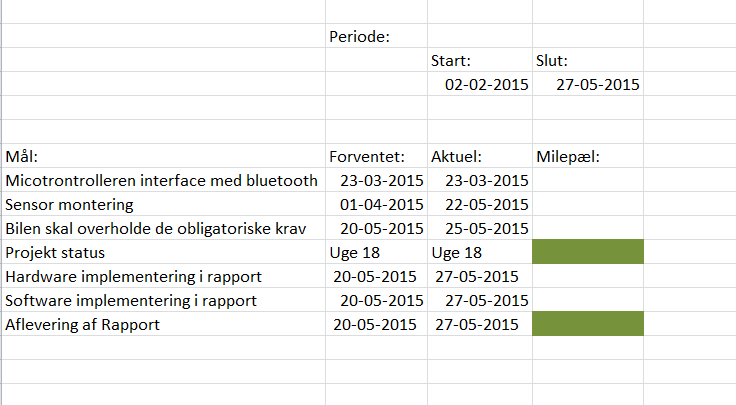
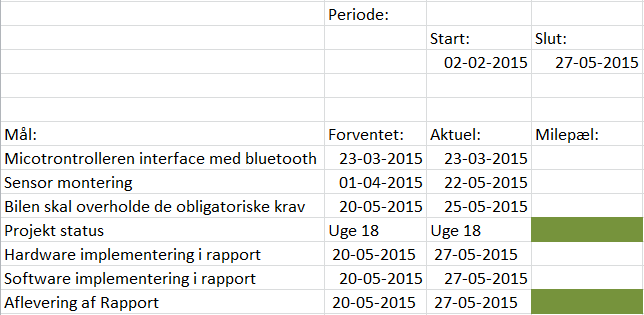
tidsplan ændret

Changed region(s): [[0.0, 0.0, 1.0, 1.0], [0.7453, 0.0, 0.8696, 0.0286]]

diff --git a/Documents/Rapport/Rapport/Sections/Indledning.tex b/Documents/Rapport/Rapport/Sections/Indledning.tex
@@ -77,9 +77,9 @@ De teori områder vi kommmer indpå har vi tænkt os at dele op i to områder Ha
 
 \subsection{Tidsplan}
 
-\begin{figure}[H]
+\begin{figure}[h]
 	\centering
-		\includegraphics[scale=1]{Billeder/tidsplan.png}
+		\includegraphics[scale=0.75]{Billeder/tidsplan.png}
 	\caption{Her kan vi se vores tidsplan}
 	\label{fig:tidsplan}
 \end{figure}
